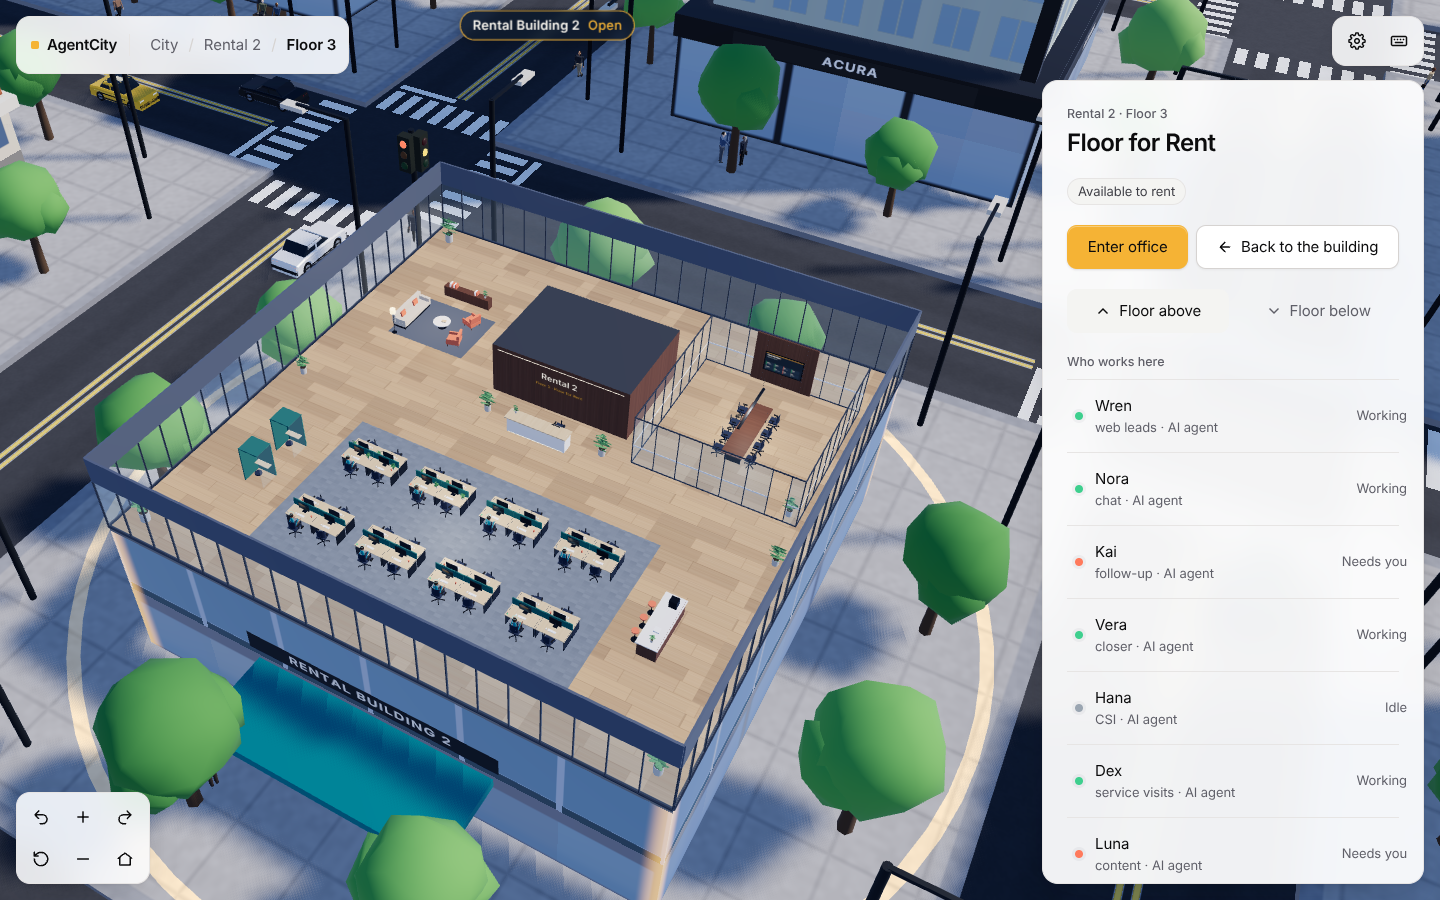
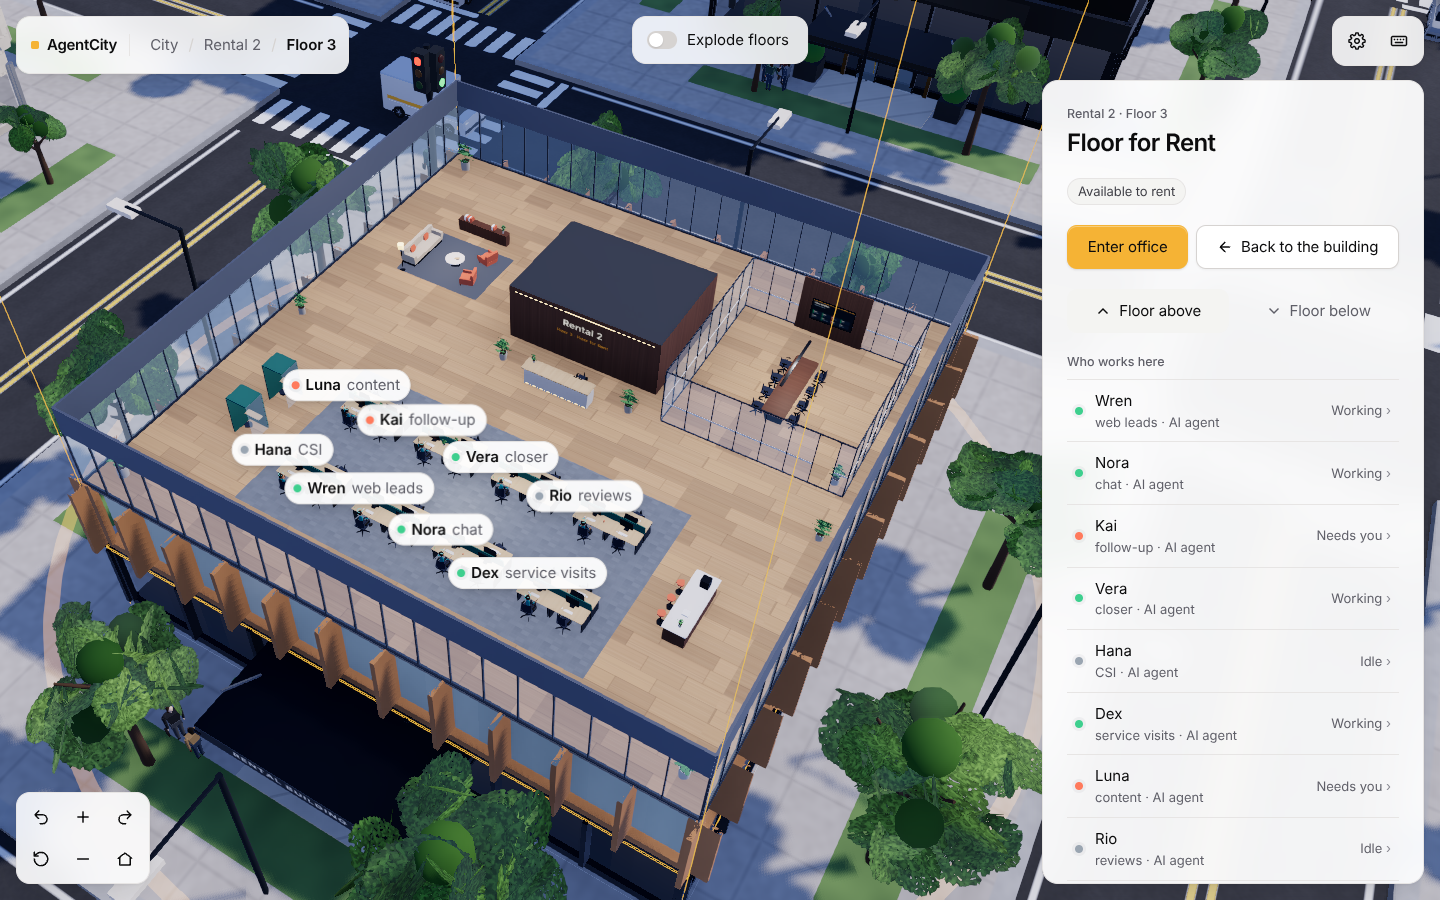
X02 A3: overview re-framed once real sizes are measured; e2e action timeout for software GL; X02 evidence shots
Claude-Session: https://claude.ai/code/session_013PNjfV67hfPoX7STGD2fsz

diff --git a/packages/city-scene/src/camera/CameraRig.tsx b/packages/city-scene/src/camera/CameraRig.tsx
@@ -744,7 +744,7 @@ export function CameraRig() {
       // The first framing was made before the real architecture was known: re-frame once, gently, unless the
       // visitor has already taken over.
       const mode = store.get().mode;
-      if (first && !touched.current && !r.motion && mode.kind !== 'explore' && mode.kind !== 'arrival')
+      if (first && !touched.current && !r.motion && mode.kind !== 'arrival')
         rigApi.current?.go(mode);
     }
     clockRef.current += rawDt;
